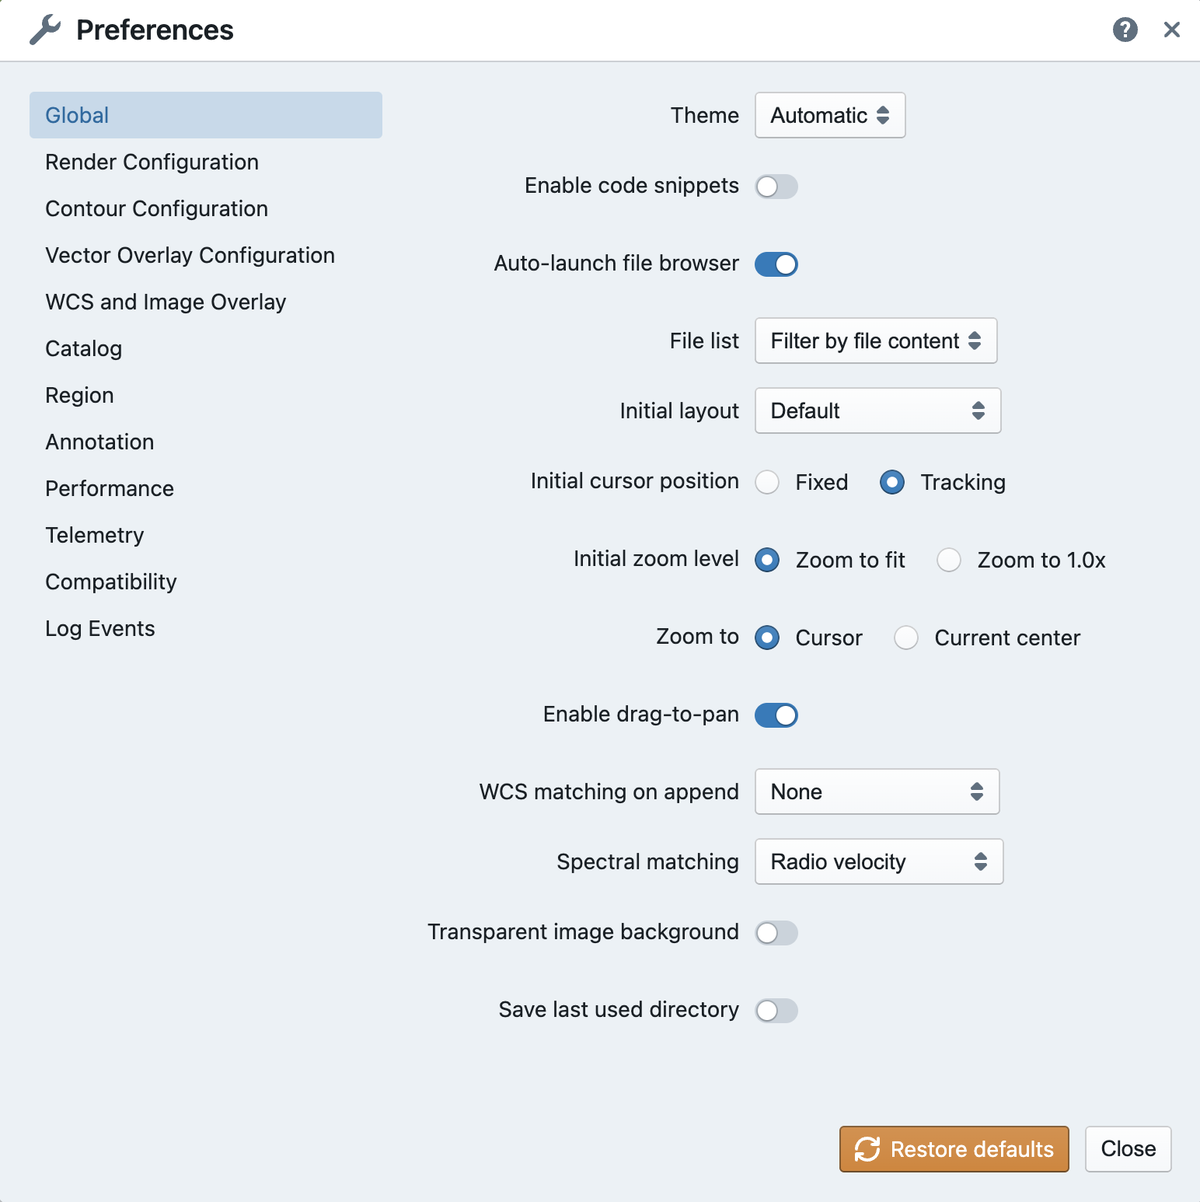
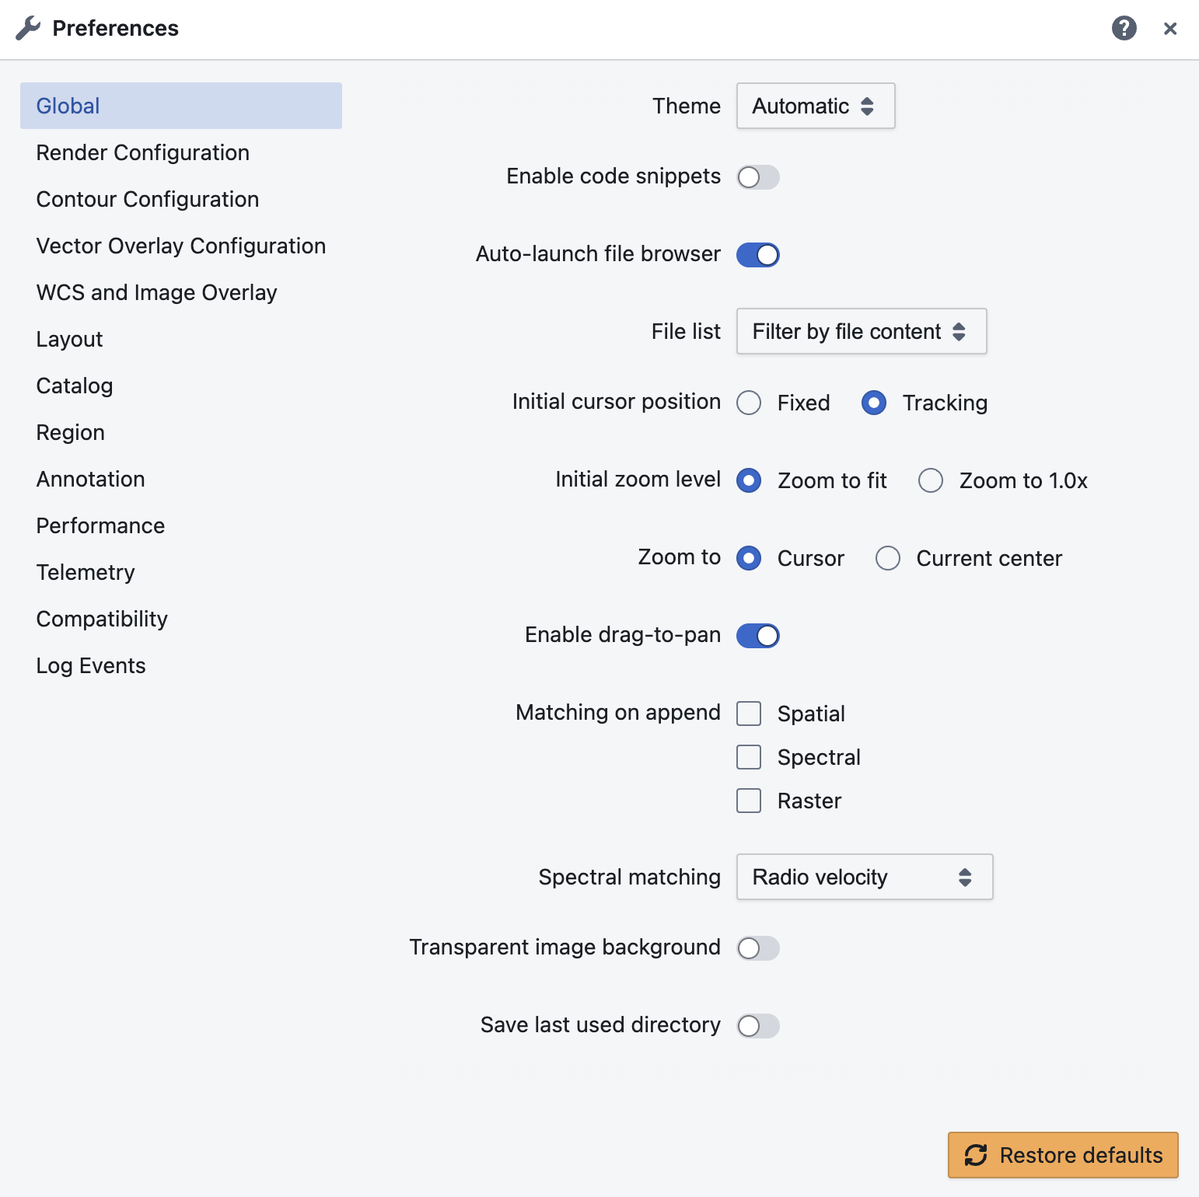
update preferences

diff --git a/source/preferences.rst b/source/preferences.rst
@@ -8,145 +8,174 @@ CARTA provides several preferences for you to customize the graphical user inter
   As a JSON file, the preferences file is kept in :code:`<your home>/.carta/config/preferences.json`. When you install CARTA on a new computer, you may copy the preferences file from the old computer to migrate the custom preferences.
 
 
-* Global
+Global
+------
 
-  * **Theme**: To switch between the light or dark theme for the graphical user interface. (default: automatic) [effective immediately]
-  * **Enable code snippets**: To enable the *experimental* feature of the in-app `JavaScript scripting interface <https://cartavis.org/carta-frontend/docs/category/code-snippet-tutorial>`_  (default: disabled) [effective immediately]
-  * **Auto-launch file browser**: Should the File Browser be launched upon initializing CARTA? (default: yes)
-  * **File list**: Options on how a file list is generated. If there are usually lots of files in your folders, you can switch to the "filter by extension" mode or "all files" mode to boost performance. (default: filter by file content) [effective immediately]
-  * **Initial layout**: The layout that should be restored upon CARTA initialization. (default: "Default")
-  * **Initial cursor position**: When CARTA is initialized, the cursor position on the image can be fixed to show a cross at the image center. Press the "**F**" key to switch back to tracking mode. (default: Tracking).
-  * **Initial zoom level**: Select the initial zoom level of a newly loaded image to either fit the Image Viewer or display at a 1:1 image-to-screen pixel ratio. (default: "Zoom to fit") [effective immediately]
-  * **Zoom to**: Zoom in/out relative to the cursor position (also known as focused zoom) or the center of the Image Viewer. [effective immediately]
-  * **Enable drag-to-pan**: Pan image by mouse dragging or clicking. [effective immediately]
-  * **WCS matching on append**: Automatically activate WCS matching for newly added images. [effective immediately]
-  * **Spectral matching**: Spectral convention adopted for spectral matching [effective immediately]
-  * **Transparent image background**: Set the background of the exported PNG file as transparent (default: white or black depending on the GUI theme) [effective immediately]
-  * **Save last used directory**: To set the initial directory path for CARTA to the last loaded image.
-
-  .. raw:: html
+.. raw:: html
 
     <a href="_static/carta_gui_preferences_global.png" target="_blank">
         <img src="_static/carta_gui_preferences_global.png" 
             style="width:100%;height:auto;">   
     </a>
 
-* Render Configuration
+* **Theme**: To switch between the light or dark theme for the graphical user interface. (default: automatic) [effective immediately]
+* **Enable code snippets**: To enable the *experimental* feature of the in-app `JavaScript scripting interface <https://cartavis.org/carta-frontend/docs/category/code-snippet-tutorial>`_  (default: disabled) [effective immediately]
+* **Auto-launch file browser**: Should the File Browser be launched upon initializing CARTA? (default: yes)
+* **File list**: Options on how a file list is generated. If there are usually lots of files in your folders, you can switch to the "filter by extension" mode or "all files" mode to boost performance. (default: filter by file content) [effective immediately]
+* **Initial cursor position**: When CARTA is initialized, the cursor position on the image can be fixed to show a cross at the image center. Press the "**F**" key to switch back to tracking mode. (default: Tracking).
+* **Initial zoom level**: Select the initial zoom level of a newly loaded image to either fit the Image Viewer or display at a 1:1 image-to-screen pixel ratio. (default: "Zoom to fit") [effective immediately]
+* **Zoom to**: Zoom in/out relative to the cursor position (also known as focused zoom) or the center of the Image Viewer. [effective immediately]
+* **Enable drag-to-pan**: Pan image by mouse dragging or clicking. [effective immediately]
+* **Matching on append**: Automatically activate spatial, spectral, or raster matching for newly added images. [effective immediately]
+* **Spectral matching**: Spectral convention adopted for spectral matching [effective immediately]
+* **Transparent image background**: Set the background of the exported PNG file as transparent (default: white or black depending on the GUI theme) [effective immediately]
+* **Save last used directory**: To set the initial directory path for CARTA to the last loaded image.
 
-  * **Default scaling**: The scaling function of the colormap (default: linear) [effective to new images]
-  * **Default colormap**: The default colormap for the raster image (default: inferno) [effective to new images]
-  * **Default percentile ranks**: The default clip level for the colormap (default: 99.9%) [effective to new images]
-  * **NaN color**: The color for rendering NaN pixels [effective immediately]
-  * **Smoothed bias/contrast**: Apply smoothed bias and contrast transfer functions to the selected scaling function (default: enabled) [effective immediately]
-  
-  .. raw:: html
+
+
+Render Configuration
+--------------------
+
+.. raw:: html
 
     <a href="_static/carta_gui_preferences_renderConfig.png" target="_blank">
         <img src="_static/carta_gui_preferences_renderConfig.png" 
             style="width:100%;height:auto;">   
     </a>
 
+* **Default scaling**: The scaling function of the colormap (default: linear) [effective to new images]
+* **Default colormap**: The default colormap for the raster image (default: inferno) [effective to new images]
+* **Default percentile ranks**: The default clip level for the colormap (default: 99.9%) [effective to new images]
+* **NaN color**: The color for rendering NaN pixels [effective immediately]
+* **Smoothed bias/contrast**: Apply smoothed bias and contrast transfer functions to the selected scaling function (default: enabled) [effective immediately]
+  
+  
 
 
-* Contour Configuration
 
-  * **Generator type**: Builtin functions for generating a set of contour levels to be calculated and rendered (default: start-step-multiplier)
-  * **Smoothing mode**: The image smoothing mode before calculating contour vertices (default: Gaussian)
-  * **Default smoothing factor**: The kernel size in the number of pixels for image smoothing (default: 4)
-  * **Default contour levels**: The number of contour levels to be generated with the level generator (default: 5)
-  * **Thickness**: The line thickness of contour rendering (default: 1)
-  * **Default color mode**: To render contours with a constant color or a color map (default: constant color)
-  * **Default colormap**: The colormap for contour rendering when the color mode is "color-mapped" .
-  * **Default color**: The constant color for contour rendering when the color mode is "constant color".
+Contour Configuration
+---------------------
 
-  .. raw:: html
+.. raw:: html
 
     <a href="_static/carta_gui_preferences_contourConfig.png" target="_blank">
         <img src="_static/carta_gui_preferences_contourConfig.png" 
             style="width:100%;height:auto;">   
     </a>
 
+* **Generator type**: Builtin functions for generating a set of contour levels to be calculated and rendered (default: start-step-multiplier)
+* **Smoothing mode**: The image smoothing mode before calculating contour vertices (default: Gaussian)
+* **Default smoothing factor**: The kernel size in the number of pixels for image smoothing (default: 4)
+* **Default contour levels**: The number of contour levels to be generated with the level generator (default: 5)
+* **Thickness**: The line thickness of contour rendering (default: 1)
+* **Default color mode**: To render contours with a constant color or a color map (default: constant color)
+* **Default colormap**: The colormap for contour rendering when the color mode is "color-mapped" .
+* **Default color**: The constant color for contour rendering when the color mode is "constant color".
 
 
-* Vector Overlay Configuration
 
-  * **Default pixel averaging**: The block averaging factor before computing the vector overlay data (default: 4x4 pixels)
-  * **Use fractional intensity**: To compute fractional polarization intensity if it is possible (default: false)
-  * **Thickness**: The line width to render the vector overlay (default: 1)
-  * **Default color mode**: To render vector overlay with a constant color or a color map (default: constant color)
-  * **Default colormap**: The colormap for vector overlay rendering when the color mode is "color-mapped" 
-  * **Default color**: The constant color for vector overlay rendering when the color mode is "constant color"
+Vector Overlay Configuration
+----------------------------
 
-  .. raw:: html
+.. raw:: html
 
     <a href="_static/carta_gui_preferences_vectorOverlayConfig.png" target="_blank">
         <img src="_static/carta_gui_preferences_vectorOverlayConfig.png" 
             style="width:100%;height:auto;">   
     </a>
 
+* **Default pixel averaging**: The block averaging factor before computing the vector overlay data (default: 4x4 pixels)
+* **Use fractional intensity**: To compute fractional polarization intensity if it is possible (default: false)
+* **Thickness**: The line width to render the vector overlay (default: 1)
+* **Default color mode**: To render vector overlay with a constant color or a color map (default: constant color)
+* **Default colormap**: The colormap for vector overlay rendering when the color mode is "color-mapped" 
+* **Default color**: The constant color for vector overlay rendering when the color mode is "constant color"
 
-* WCS and Image Overlay
+  
 
-  * **Color**: The color for the WCS overlay, including border, grid line, ticks, labels, and title [effective to new images]
-  * **WCS grid visible**: To show grid line or not as default (default: yes) [effective to new images]
-  * **Label visible**: To show coordinate labels or not as default (default: yes) [effective to new images]
-  * **Cursor info visible**: The mode to show the cursor info bar in the Image Viewer (default: active image only) [effective immediately]
-  * **WCS format**: The format of the displayed world coordinate. The default is "automatic", meaning for GALACTIC or ECLIPTIC systems, the world coordinate is displayed in decimal degrees, and for FK4, FK5, or ICRS, the world coordinate is displayed in sexigesimal format. (default: automatic) [effective to new images]
-  * **Colorbar visible**: To show a colorbar in the Image Viewer (default: yes) [effective to new images]
-  * **Colorbar interactive**: When this is activated, if you hover over the colorbar, a dynamic color clip is applied to the raster image immediately to assist you in exploring image features (default: activated) [effective to new images]
-  * **Colorbar position**: The position where the colorbar should be rendered in the Image Viewer (default: right) [effective to new images]
-  * **Colorbar width (px)**: The width of the colorbar (default: 15) [effective to new images]
-  * **Colorbar ticks density (per 100px)**: The density of the computed ticks per 100 screen pixels (default: 1) [effective to new images]
-  * **Colorbar label visible**: To show a colorbar label (default: no) [effective to new images]
-  * **Beam visible**: To show a spatial resolution element (default: yes) [effective to new images]
-  * **Beam color**: The color for rendering a spatial resolution element [effective to new images]
-  * **Beam type**: The styling for rendering a spatial resolution element (default: open) [effective to new images]
-  * **Beam width (px)**: The line width for rendering a spatial resolution element (default: 1) [effective to new images]
 
-  .. raw:: html
+WCS and Image Overlay
+---------------------
+
+.. raw:: html
 
     <a href="_static/carta_gui_preferences_WCSImageOverlayConfig.png" target="_blank">
         <img src="_static/carta_gui_preferences_WCSImageOverlayConfig.png" 
             style="width:100%;height:auto;">   
     </a>
 
+* **Color**: The color for the WCS overlay, including border, grid line, ticks, labels, and title [effective to new images]
+* **WCS grid visible**: To show grid line or not as default (default: yes) [effective to new images]
+* **Label visible**: To show coordinate labels or not as default (default: yes) [effective to new images]
+* **Cursor info visible**: The mode to show the cursor info bar in the Image Viewer (default: active image only) [effective immediately]
+* **WCS format**: The format of the displayed world coordinate. The default is "automatic", meaning for GALACTIC or ECLIPTIC systems, the world coordinate is displayed in decimal degrees, and for FK4, FK5, or ICRS, the world coordinate is displayed in sexigesimal format. (default: automatic) [effective to new images]
+* **Colorbar visible**: To show a colorbar in the Image Viewer (default: yes) [effective to new images]
+* **Colorbar interactive**: When this is activated, if you hover over the colorbar, a dynamic color clip is applied to the raster image immediately to assist you in exploring image features (default: activated) [effective to new images]
+* **Colorbar position**: The position where the colorbar should be rendered in the Image Viewer (default: right) [effective to new images]
+* **Colorbar width (px)**: The width of the colorbar (default: 15) [effective to new images]
+* **Colorbar ticks density (per 100px)**: The density of the computed ticks per 100 screen pixels (default: 1) [effective to new images]
+* **Colorbar label visible**: To show a colorbar label (default: no) [effective to new images]
+* **Beam visible**: To show a spatial resolution element (default: yes) [effective to new images]
+* **Beam color**: The color for rendering a spatial resolution element [effective to new images]
+* **Beam type**: The styling for rendering a spatial resolution element (default: open) [effective to new images]
+* **Beam width (px)**: The line width for rendering a spatial resolution element (default: 1) [effective to new images]
 
-* Catalog        
 
-  * **Displayed columns**: Displaying only the first N columns of a catalog as default [effective to new catalogs]
 
-  .. raw:: html
+
+Layout
+------
+.. raw:: html
+
+    <a href="_static/carta_gui_preferences_layout.png" target="_blank">
+        <img src="_static/carta_gui_preferences_layout.png" 
+            style="width:100%;height:auto;">   
+    </a>
+
+* **Initial layout**: The layout that should be restored upon CARTA initialization. (default: "Default")
+* **Dynamic layout**: To enable the dynamic layout feature, which automatically loads the layout of widgets registered to a certain image type when the image is loaded. (default: disabled) [effective immediately]
+* **Higher dimension priority**: When multiple images are selected to be loaded, the image type for linking to a given layout will be determined jointly based on the one with highest cube dimension. If this toggle is disabled, the image type of the first image in the selected list will be used for linking to a given layout. (default: enabled) [effective immediately]
+
+A list of image type labels and their linked layouts is displayed in this tab as well. You can link a new layout to a given image type or delete an existing link.
+
+
+
+Catalog        
+-------
+.. raw:: html
 
     <a href="_static/carta_gui_preferences_catalog.png" target="_blank">
         <img src="_static/carta_gui_preferences_catalog.png" 
             style="width:100%;height:auto;">   
     </a>
 
-* Region
 
-  * **Color**: The default color of a region [effective to new regions]
-  * **Line width (px)**: The default line width of a region (default: 2) [effective to new regions]
-  * **Dash length (px)**: The default dash length of the line composing a region. The default is to show a region in a solid line (default: 0) [effective to new regions]
-  * **Region type**: The default selected region in the toolbar of the Image Viewer (default: rectangle) [effective to new images]
-  * **Region size**: The default region (screen) size when created by a single click (rectangle, ellipse, and line) [effective to new regions]
-  * **Creation mode**: The rectangle or ellipse can be created by dragging the mouse in two ways: center-to-corner or corner-to-corner. (default: center-to-corner) [effective to new regions]
+* **Displayed columns**: Displaying only the first N columns of a catalog as default [effective to new catalogs]
 
-  .. raw:: html
+
+
+Region
+------
+.. raw:: html
 
     <a href="_static/carta_gui_preferences_region.png" target="_blank">
         <img src="_static/carta_gui_preferences_region.png" 
             style="width:100%;height:auto;">   
     </a>
 
-* Annotation
 
-  * **Color**: The default color of an annotation object [effective to new annotation objects]
-  * **Line width (px)**: The default line width of an annotation object (default: 2) [effective to new annotation objects]
-  * **Dash length (px)**: The default dash length of the line composing an annotation object. The default is a solid line (default: 0) [effective to new annotation objects]
-  * **Point shape**: The default selected point shape in the toolbar of the Image Viewer (default: filled square) [effective to new annotation objects]
-  * **Point size (px)**: The default annotation object (screen) size when created by a single click (default: 6) [effective to new annotation objects]
+* **Color**: The default color of a region [effective to new regions]
+* **Line width (px)**: The default line width of a region (default: 2) [effective to new regions]
+* **Dash length (px)**: The default dash length of the line composing a region. The default is to show a region in a solid line (default: 0) [effective to new regions]
+* **Region type**: The default selected region in the toolbar of the Image Viewer (default: rectangle) [effective to new images]
+* **Region size**: The default region (screen) size when created by a single click (rectangle, ellipse, and line) [effective to new regions]
+* **Creation mode**: The rectangle or ellipse can be created by dragging the mouse in two ways: center-to-corner or corner-to-corner. (default: center-to-corner) [effective to new regions]
+
   
-  .. raw:: html
+
+Annotation
+----------
+.. raw:: html
 
     <a href="_static/carta_gui_preferences_annotation.png" target="_blank">
         <img src="_static/carta_gui_preferences_annotation.png" 
@@ -154,36 +183,56 @@ CARTA provides several preferences for you to customize the graphical user inter
     </a>
 
 
-* Performance
+* **Color**: The default color of an annotation object [effective to new annotation objects]
+* **Line width (px)**: The default line width of an annotation object (default: 2) [effective to new annotation objects]
+* **Dash length (px)**: The default dash length of the line composing an annotation object. The default is a solid line (default: 0) [effective to new annotation objects]
+* **Point shape**: The default selected point shape in the toolbar of the Image Viewer (default: filled square) [effective to new annotation objects]
+* **Point size (px)**: The default annotation object (screen) size when created by a single click (default: 6) [effective to new annotation objects]
+  
 
-  * **Low bandwidth mode**: To reduce required image resolution by a factor of two and reduce the cursor responsiveness to 400 ms [effective immediately]
-  * **Limit overlay redraw**: To throttle the WCS grid rendering (default: yes) [effective immediately]
-  * **Compression quality (image)**: You can adjust the image quality through lossy compression with a parameter range of 1 to 32. The higher the number is, the better quality the images are. Choose with caution. (default: 11) [effective immediately]
-  * **Compression quality (animation)**: You can adjust the animation quality through lossy compression with a parameter range of 1 to 32. The higher the number is, the better the quality of the animation playback is. Choose with caution. (default: 9) [effective immediately]
-  * **GPU tile cache size (number of tiles)**: The cache size of GPU for tiles (default: 512)
-  * **System tile cache size (number of tiles)**: The cache size of system memory for tiles (default: 4096)
-  * **Contour rounding factor**: The number of contour vertices per pixel
-  * **Contour compression level**: The compression quality of contour image data
-  * **Contour chunk size**: The chunk size of contour data streaming
-  * **Contour control map resolution**: The control map resolution for reprojecting contour vertices to other coordinate systems.
-  * **Stream image tiles while zooming**: To stream image tiles for all throttled image zoom levels.
-  * **Stop animation playback in**: A timer to stop animation playback for server resource management.
-  * **PV preview cube size limit**: The upper limit of the memory cache to perform PV image preview (default: 1 GB)
 
-  .. raw:: html
+
+Performance
+-----------
+.. raw:: html
 
     <a href="_static/carta_gui_preferences_performance.png" target="_blank">
         <img src="_static/carta_gui_preferences_performance.png" 
             style="width:100%;height:auto;">   
     </a>
 
+* **Low bandwidth mode**: To reduce required image resolution by a factor of two and reduce the cursor responsiveness to 400 ms [effective immediately]
+* **Limit overlay redraw**: To throttle the WCS grid rendering (default: yes) [effective immediately]
+* **Compression quality (image)**: You can adjust the image quality through lossy compression with a parameter range of 1 to 32. The higher the number is, the better quality the images are. Choose with caution. (default: 11) [effective immediately]
+* **Compression quality (animation)**: You can adjust the animation quality through lossy compression with a parameter range of 1 to 32. The higher the number is, the better the quality of the animation playback is. Choose with caution. (default: 9) [effective immediately]
+* **GPU tile cache size (number of tiles)**: The cache size of GPU for tiles (default: 512)
+* **System tile cache size (number of tiles)**: The cache size of system memory for tiles (default: 4096)
+* **Contour rounding factor**: The number of contour vertices per pixel
+* **Contour compression level**: The compression quality of contour image data
+* **Contour chunk size**: The chunk size of contour data streaming
+* **Contour control map resolution**: The control map resolution for reprojecting contour vertices to other coordinate systems.
+* **Stream image tiles while zooming**: To stream image tiles for all throttled image zoom levels.
+* **Stop animation playback in**: A timer to stop animation playback for server resource management.
+* **PV preview cube size limit**: The upper limit of the memory cache to perform PV image preview (default: 1 GB)
 
-* Telemetry
+
+.. warning::
   
-  * **Telemetry mode**: The mode for sending anonymous usage data to the CARTA development team for development and planning purposes 
-  * **Log telemetry output**: To show telemetry log in the browser debug console (default: off)
+  The performance settings are for advanced users. Changing these settings may affect the performance of CARTA. Please use caution when modifying these settings, especially the following:
 
-  .. raw:: html
+  * Compression quality (image)
+  * Compression quality (animation)
+  * GPU tile cache size (number of tiles)
+  * System tile cache size (number of tiles)
+  * Contour rounding factor
+  * Contour compression level
+  * Contour chunk size
+  * Contour control map resolution
+
+
+Telemetry
+---------
+.. raw:: html
 
     <a href="_static/carta_gui_preferences_telemetry.png" target="_blank">
         <img src="_static/carta_gui_preferences_telemetry.png" 
@@ -191,23 +240,31 @@ CARTA provides several preferences for you to customize the graphical user inter
     </a>
 
 
-* Compatibility
+* **Telemetry mode**: The mode for sending anonymous usage data to the CARTA development team for development and planning purposes 
+* **Log telemetry output**: To show telemetry log in the browser debug console (default: off)
 
-  * **AIPS cube beam support**: To derive the beam information from the HISTORY entries of an AIPS cube. (default: disabled)
 
-  .. raw:: html
+
+
+Compatibility
+-------------
+.. raw:: html
 
     <a href="_static/carta_gui_preferences_compatibility.png" target="_blank">
         <img src="_static/carta_gui_preferences_compatibility.png" 
             style="width:100%;height:auto;">   
     </a>
 
+* **AIPS cube beam support**: To derive the beam information from the HISTORY entries of an AIPS cube. (default: disabled)
 
-* Log Events
 
-  This is for debugging purposes. General users can skip this part. CARTA's client-side and server-side communicate through "protocol buffer" messages. For debugging purposes, advanced users can identify a set of messages in the list and launch the browser console to see those message flows.
 
-  .. raw:: html
+Log Events
+----------
+
+This is for debugging purposes. General users can skip this part. CARTA's client-side and server-side communicate through "protocol buffer" messages. For debugging purposes, advanced users can identify a set of messages in the list and launch the browser console to see those message flows.
+
+.. raw:: html
 
     <a href="_static/carta_gui_preferences_log.png" target="_blank">
         <img src="_static/carta_gui_preferences_log.png" 
